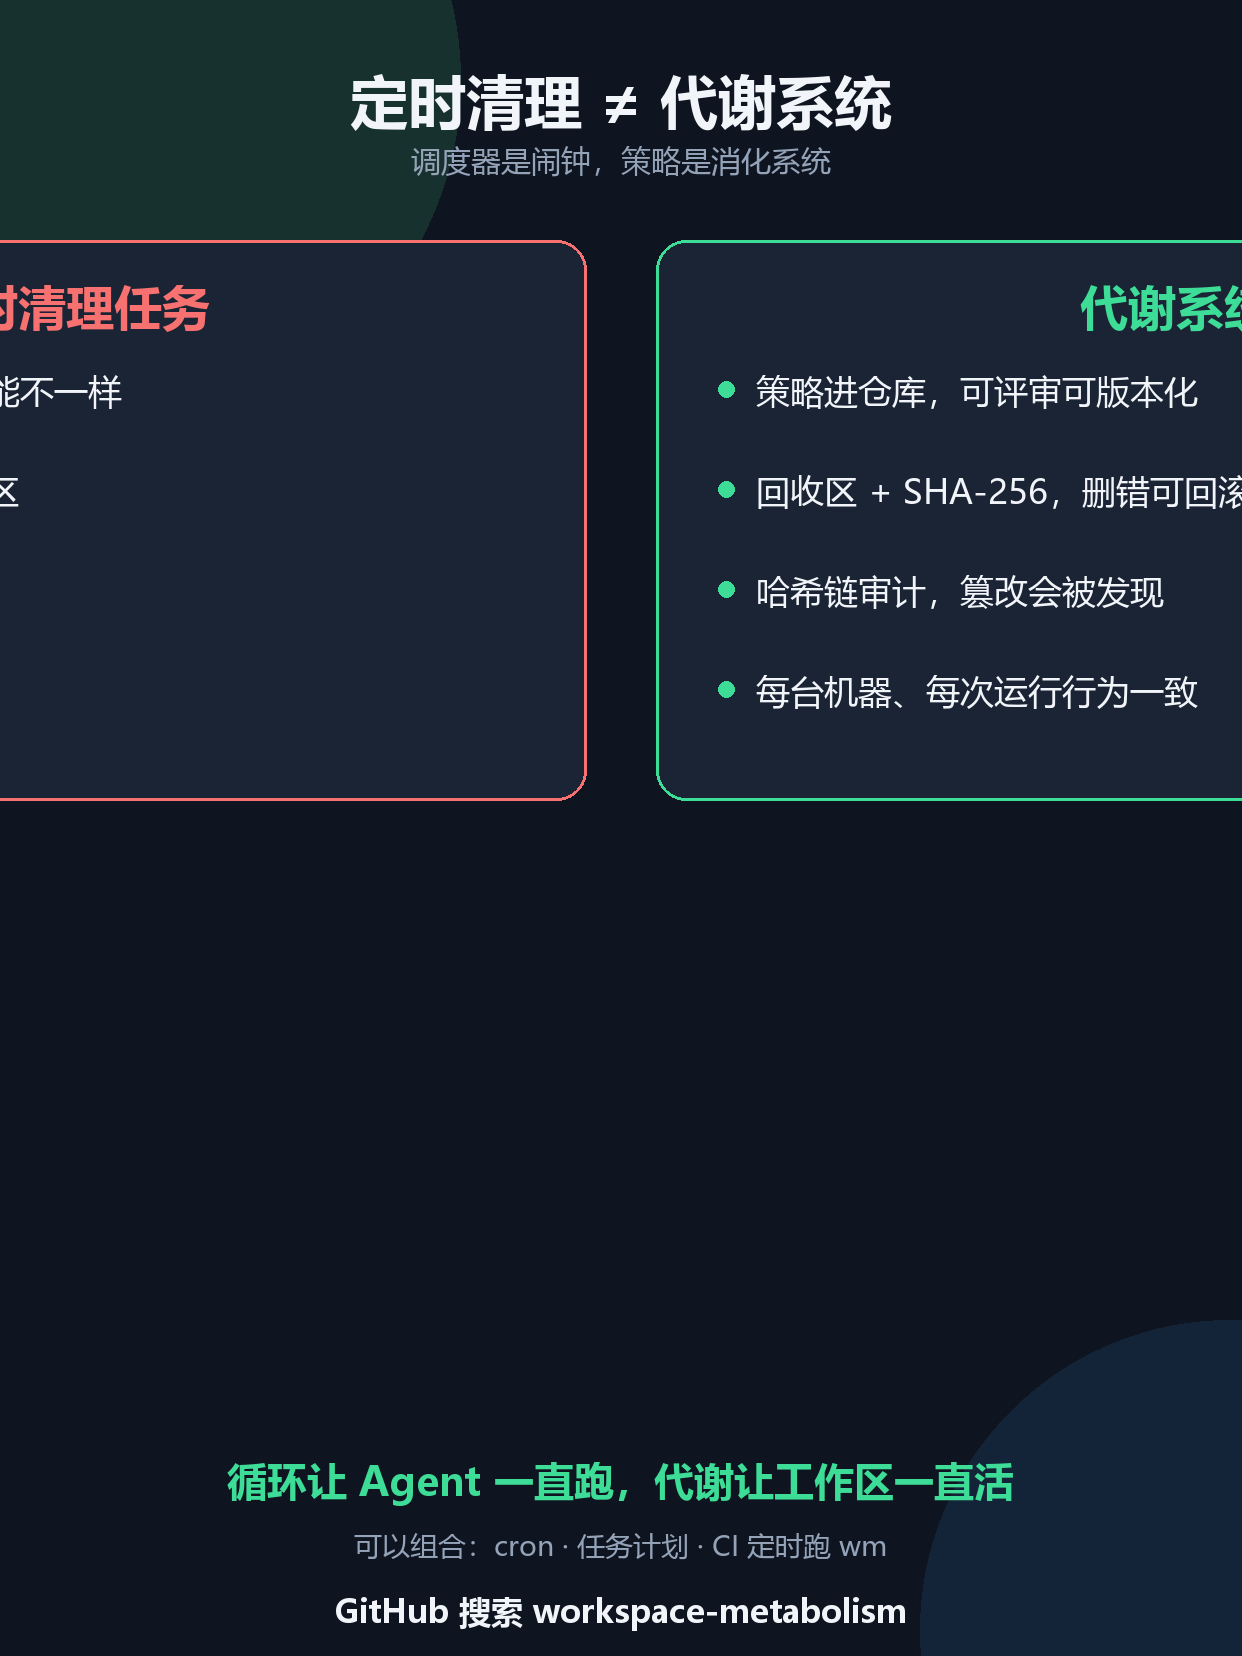
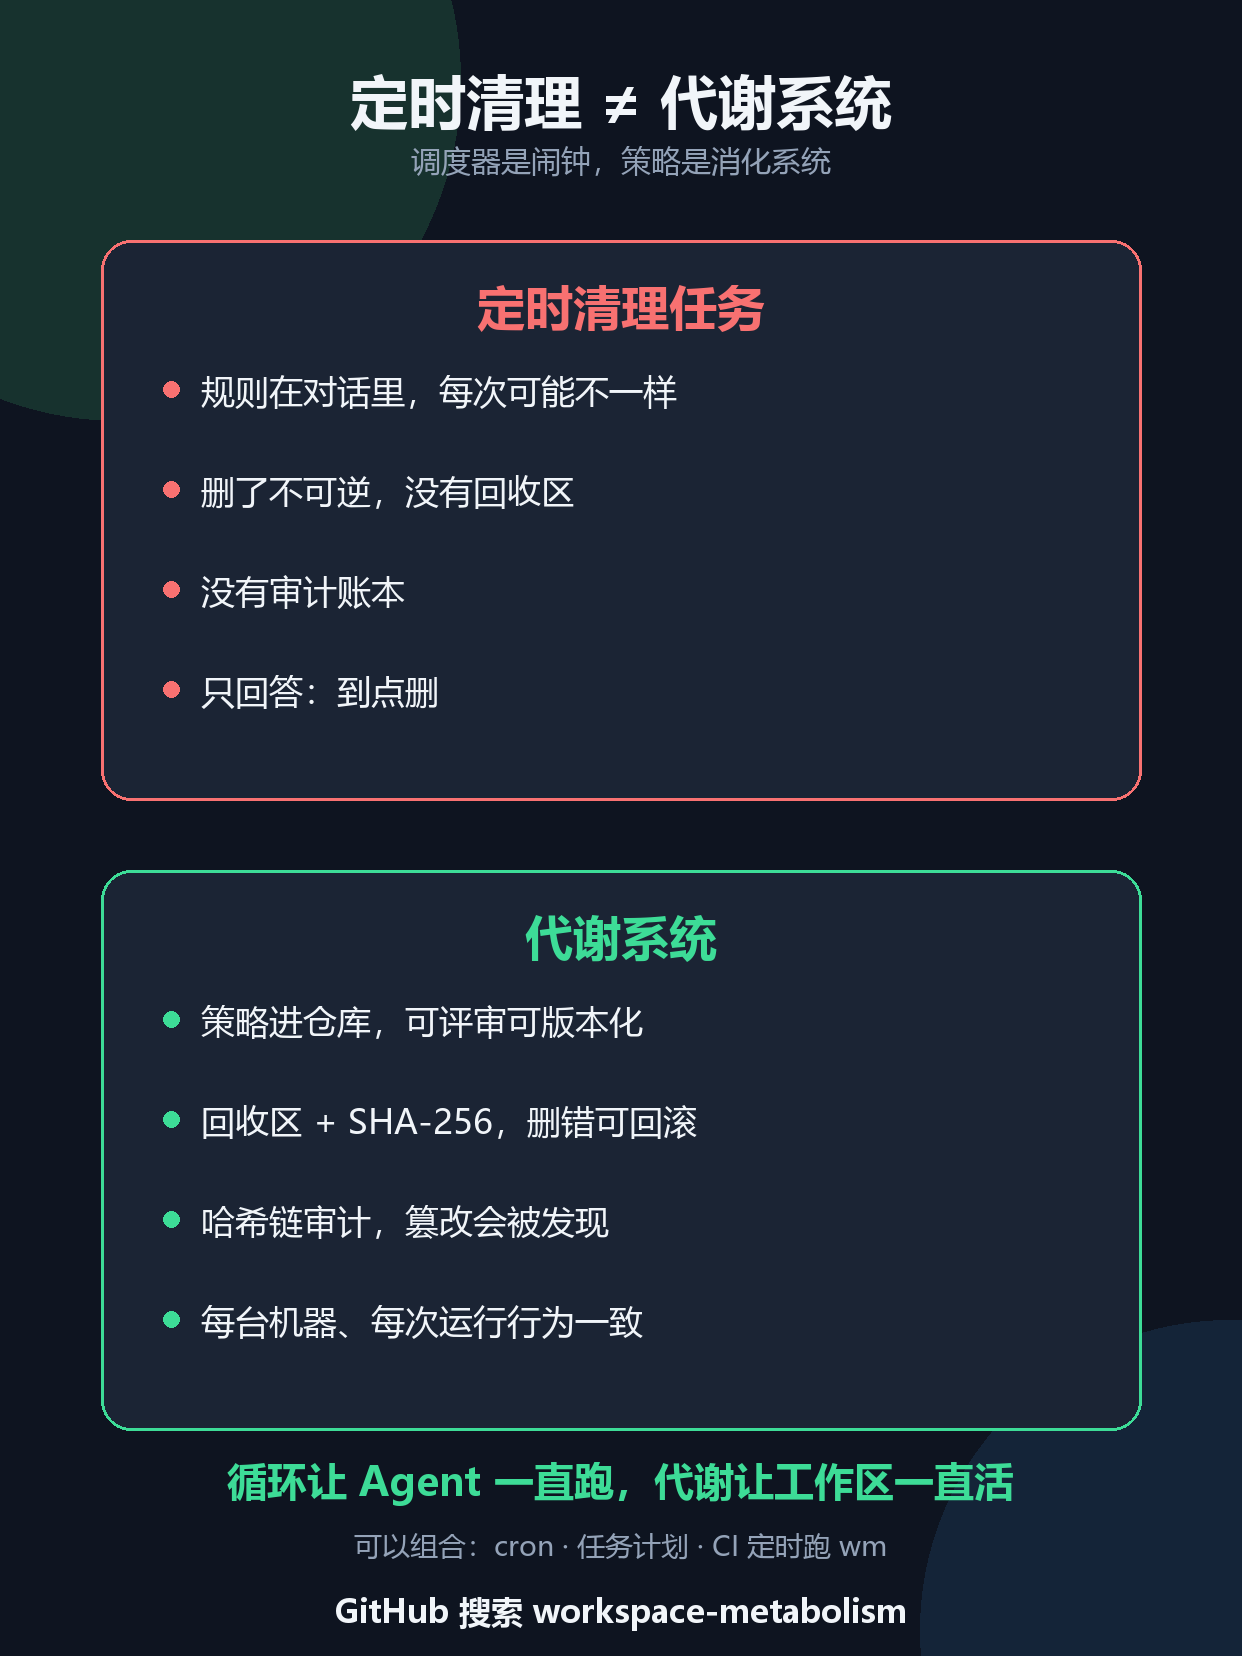
fix: stack comparison panels vertically in portrait image (text was clipped)

diff --git a/docs/publish/make_images.py b/docs/publish/make_images.py
@@ -399,6 +399,20 @@ def _comparison_panels(d, w, panels, y0, panel_w, panel_h, gap, fnt_header, fnt_
             yy += row_gap
 
 
+def _comparison_panels_stacked(d, w, panels, y0, panel_w, panel_h, gap, fnt_header, fnt_row, row_gap):
+    x0 = (w - panel_w) // 2
+    for i, (title, rows, color) in enumerate(panels):
+        y = y0 + i * (panel_h + gap)
+        d.rounded_rectangle((x0, y, x0 + panel_w, y + panel_h), radius=30, fill=CARD, outline=color, width=3)
+        cx = x0 + panel_w // 2
+        center_text(d, cx, y + 66, title, fnt_header, color)
+        yy = y + 150
+        for row in rows:
+            d.ellipse((x0 + 62, yy - 9, x0 + 78, yy + 7), fill=color)
+            d.text((x0 + 100, yy), row, font=fnt_row, fill=TEXT, anchor="lm")
+            yy += row_gap
+
+
 def scheduled_vs_metabolism():
     w, h = 1536, 864
     img, d = new_canvas(w, h)
@@ -453,7 +467,7 @@ def scheduled_vs_metabolism_vertical():
             ACCENT,
         ),
     ]
-    _comparison_panels(d, w, panels, 240, 1040, 560, 70, font(48, bold=True), font(34), 100)
+    _comparison_panels_stacked(d, w, panels, 240, 1040, 560, 70, font(48, bold=True), font(34), 100)
 
     center_text(d, w // 2, 1480, "循环让 Agent 一直跑，代谢让工作区一直活", font(40, bold=True), ACCENT)
     center_text(d, w // 2, 1545, "可以组合：cron · 任务计划 · CI 定时跑 wm", font(28), MUTED)
